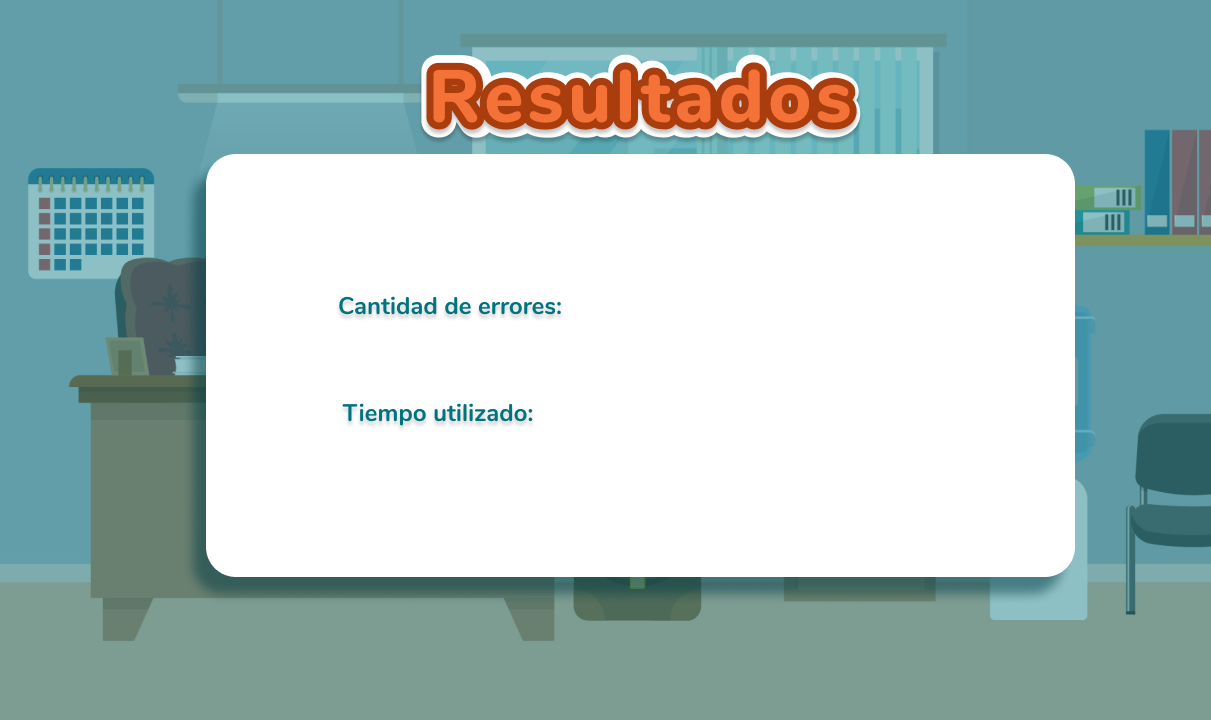
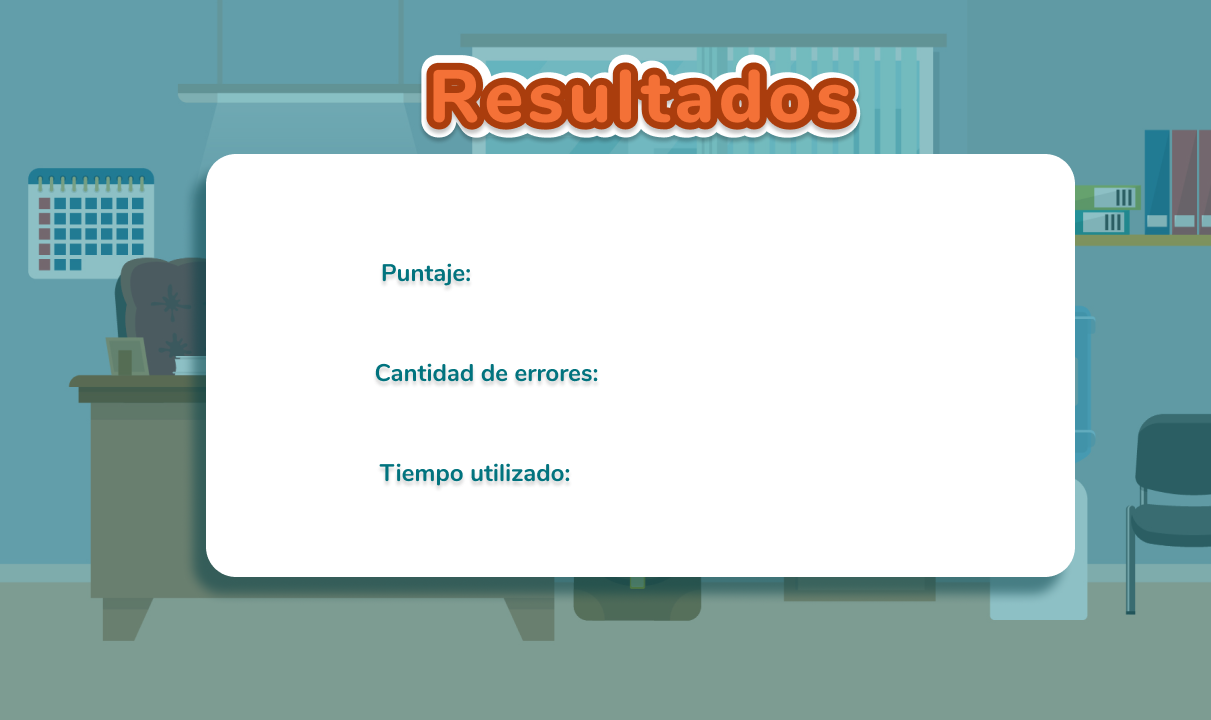
terminado

Changed region(s): [[0.275, 0.4889, 0.4889, 0.6111], [0.275, 0.3667, 0.4583, 0.4583], [0.3055, 0.6417, 0.4889, 0.6722]]

diff --git a/main.js b/main.js
@@ -18,7 +18,7 @@ let centinela = false;
 let explorador = false;
 
 let timer;
-let counter = 60;
+let counter = 300;
 let seconds, minutes;
 let tiempo;
 
@@ -30,6 +30,9 @@ let nivel2 = false;
 let nivel1 = false;
 let start = true;
 let btnLocked = false;
+let zoneAdmi = false;
+let finish = false;
+let validar = true;
 let estado = '';
 let logic = new Logic();
 
@@ -48,6 +51,7 @@ function preload() {
     fondoInstrucciones = loadImage('resources/instrucciones.png');
     fondoCandidatos = loadImage('resources/FondoCandidatos.png');
     fondoArquetipo = loadImage('resources/fondoArquetipo.png');
+    fondoTiempo = loadImage('resources/tiempoAgotado.png');
 
     instruccionGeneral = loadImage('resources/instruccionesGeneral.png');
     instruccionTiempo = loadImage('resources/instruccionesTiempo.png');
@@ -69,6 +73,9 @@ function preload() {
     btnContratar = loadImage('resources/contratarBtn.png');
     btnInfo = loadImage('resources/btnInfo.png');
     btnResultados = loadImage('resources/btnResultados.png');
+    btnContratar2 = loadImage('resources/btnContratarGris.png');
+    btnContinuar2 = loadImage('resources/btnContinuarGris.png');
+    btnFinalizar = loadImage('resources/btnFinalizar.png');
 
     btnArquetipo = loadImage('resources/BotonArqueotipo.png');
     btnCandidatos = loadImage('resources/botonCandidatos.png');
@@ -205,8 +212,13 @@ function draw() {
             image(fondoArquetipo, 0, 0);
             nivel1 = true;
             image(boxes, 235, 421);
+            logic.zone();
+            if(!zoneAdmi){
+                image(btnContinuar2,527, 625);
+            }
             logic.paintCharacter();
             fill(255, 0, 0);
+            noStroke();
             text("Errores : " + erroresNivel1, 1085, 130);
             break;
         //RESUMEN ARQUETIPO
@@ -226,7 +238,10 @@ function draw() {
             image(carnets, 123, 452);
             logic.paint2Character();
             imageMode(CORNER);
-
+            logic.zone();
+            if(!zoneAdmi){
+                image(btnContratar2,527, 617);
+            }
             if (send) {
                 imageMode(CORNER);
                 image(confirmation, 0, 0);
@@ -309,7 +324,7 @@ function mouseClicked() {
 
                 if (mouseX > 36 && mouseX < 197 && mouseY > 108 && mouseY < 168) pantalla = 12;
             }
-            if (mouseX > 538 && mouseX < 742 && mouseY > 625 && mouseY < 699) send = true;
+            if(zoneAdmi)if (mouseX > 538 && mouseX < 742 && mouseY > 625 && mouseY < 699) send = true;
 
             if (send) {
                 if (mouseX > 378 && mouseX < 586 && mouseY > 359 && mouseY < 434) {
@@ -322,11 +337,12 @@ function mouseClicked() {
                         wrong = true;
                     } else {
                         let operacion = erroresNivel1 * 10;
-                        if(puntaje1 <= 10){
+                        if(erroresNivel1 <= 10){
                             puntaje1 -= operacion;
                         } else{
                             puntaje1 = 0;
                         }
+                        zoneAdmi = false;
                         pantalla = 13;
                         nivel1 = false;
                     }
@@ -362,19 +378,32 @@ function mouseClicked() {
                 if (mouseX > 36 && mouseX < 197 && mouseY > 108 && mouseY < 168) pantalla = 12;
             }
             if (btnLocked) {
-                if (mouseX > 538 && mouseX < 742 && mouseY > 625 && mouseY < 699) send = true;
+                if(zoneAdmi) if (mouseX > 538 && mouseX < 742 && mouseY > 625 && mouseY < 699) send = true;
                 if (send) {
                     if (mouseX > 378 && mouseX < 586 && mouseY > 359 && mouseY < 434) {
                         pantalla = 14;
                         send = false;
                     }
                     if (mouseX > 672 && mouseX < 878 && mouseY > 360 && mouseY < 434) {
-                        logic.matchJobs();
+                        if (!zoneAdmi) {
+                            wrong = true;
+                            send = false;
+
+                        } else{
+                            logic.matchJobs();
                         estado = "COMPLETADO";
                         start = false;
                         send = false;
                         nivel2 = false;
+
+                        } 
                     }
+                }
+            }
+            if (wrong) {
+                if (mouseX > 538 && mouseX < 739 && mouseY > 545 && mouseY < 620) {
+                    pantalla = 14;
+                    wrong = false;
                 }
             }
 
@@ -414,14 +443,6 @@ function mouseClicked() {
         case 16:
             //Reiniciar valores 
 
-            logic.addCharacters();
-            erroresNivel1 = 0;
-            erroresNivel2 = 0;
-            totalErrores = 0;
-            repeticionesNivel1 = 0;
-            repeticionesNivel2 = 0;
-            totalRepeticiones = 0;
-
             break;
     }
 
@@ -429,6 +450,28 @@ function mouseClicked() {
         if (mouseX > 538 && mouseX < 739 && mouseY > 545 && mouseY < 620) timeAd = false;
 
     }
+    if(finish){
+        if (mouseX > 538 && mouseX < 739 && mouseY > 545 && mouseY < 620){
+            validar = false;
+            finish = false;
+        if (nivel1) {
+            let operacion = erroresNivel1 * 10;
+                if(erroresNivel1 <= 10){
+                    puntaje1 -= operacion;
+                } else{
+                    puntaje1 = 0;
+                }
+                estado = "TIEMPO TERMINADO";
+        }
+        if (nivel2 ){
+            logic.matchJobs();
+            estado = "TIEMPO TERMINADO";
+        }
+        pantalla = 15;
+
+        } 
+    }
+
 }
 
 function mouseMoved() {
@@ -477,7 +520,7 @@ function mouseMoved() {
         case 10:
             break;
         case 11:
-            if (mouseX > 538 && mouseX < 745 && mouseY > 626 && mouseY < 700) image(btnContinuar, 640, 670);
+            if(zoneAdmi) if (mouseX > 538 && mouseX < 745 && mouseY > 626 && mouseY < 700) image(btnContinuar, 640, 670);
             if (mouseX > 36 && mouseX < 197 && mouseY > 35 && mouseY < 82) image(btnCandidatos, 118, 64);
             if (mouseX > 36 && mouseX < 197 && mouseY > 106 && mouseY < 165) image(btnArquetipo, 117, 135);
             break;
@@ -488,7 +531,7 @@ function mouseMoved() {
             break;
         case 14:
             imageMode(CORNER);
-            if (mouseX > 540 && mouseX < 744 && mouseY > 626 && mouseY < 700) image(btnContratar, 527, 617);
+            if(zoneAdmi) if (mouseX > 540 && mouseX < 744 && mouseY > 626 && mouseY < 700) image(btnContratar, 527, 617);
             if (mouseX > 36 && mouseX < 197 && mouseY > 35 && mouseY < 82) image(btnCandidatos, 36, 35);
             if (mouseX > 36 && mouseX < 197 && mouseY > 106 && mouseY < 165) image(btnArquetipo, 34, 106);
             if (mouseX > 282 && mouseX < 320 && mouseY > 553 && mouseY < 587) image(btnInfo, 270, 546);
@@ -569,23 +612,11 @@ function timeIt() {
 
 function time() {
     //TERMINO EL TIEMPO
+    if(validar){
     if (minutes === 0 && seconds === 0) {
-        /*
-        if (pantalla === 11 || nivel1) {
-            let operacion = erroresNivel1 * 10;
-                if(puntaje1 <= 10){
-                    puntaje1 -= operacion;
-                } else{
-                    puntaje1 = 0;
-                }
-                estado = "TIEMPO TERMINADO";
-        }
-        if (pantalla === 14 || nivel2 ){
-            logic.matchJobs();
-            estado = "TIEMPO TERMINADO";
-        }*/
-        pantalla = 16;
+        finish = true;
     }
+}
     //FALTAN 5 MINUTOS
 
     if (minutes === 1 && seconds === 0) {
@@ -685,6 +716,12 @@ function ad() {
         }
     }
 
+    if(finish){
+        image(fondoTiempo,0,0);
+        if (mouseX > 538 && mouseX < 739 && mouseY > 545 && mouseY < 620) image(btnFinalizar,530,545);
+
+    }
+
     imageMode(CORNER);
     if (timeAd) {
         image(avisoTiempo, 0, 0);
@@ -702,13 +739,12 @@ function results(){
     totalErrores = erroresNivel1 + erroresNivel2;
     totalPuntaje = puntaje1 + puntaje2;
     tiempo = counter;
+    
+    text(totalErrores, 629, 381);
+    text(totalPuntaje+"/200", 496, 281);
+    text(minutes+" : "+seconds,589,481);
 
-    text("Errores: " + totalErrores, 680, 294);
-    text("Puntaje: " + totalPuntaje+"/200", 680, 339);
-    text("Tiempo: "+minutes+" : "+seconds,680,385);
-    text("Repeticiones Nivel1: " + repeticionesNivel1, 680, 429);
-    text("Estado: "+estado,680,500);
-    console.log(counter);
-
+    //text("Repeticiones Nivel1: " + repeticionesNivel1, 680, 429);
+    //text("Estado: "+estado,680,500);
 }
 

diff --git a/Logic.js b/Logic.js
@@ -88,8 +88,6 @@ class Logic {
 
 
         for (let i = 0; i < characters.length; i++) {
-            console.log(i);
-    
             
             // Estefania ANALISTA
             if (characters[3].getPosX() > 951 && characters[3].getPosX() < 1165 && characters[3].getPosY() > 496 && characters[3].getPosY() < 660) {
@@ -151,6 +149,28 @@ class Logic {
         
         pantalla = 15;
     }
+
+    zone(){
+        for (let i = 0; i < characters.length; i++) {
+
+        if (characters[i].getPosX() > 127 && characters[i].getPosX() < 1165 && characters[i].getPosY() > 496 && characters[i].getPosY() < 660) {
+            zoneAdmi = true;
+        } else {
+            zoneAdmi = false;
+        }
+    }
+    }
+    zoneArqueotipo(){
+        for (let i = 0; i < characters.length; i++) {
+
+            if (characters[i].getPosX() > 235 && characters[i].getPosX() < 1045 && characters[i].getPosY() > 437 && characters[i].getPosY() < 596) {
+                zoneAdmi = true;
+            } else {
+                zoneAdmi = false;
+            }
+        }
+    }
+
 
      select(state, x){
         postulante = state;
